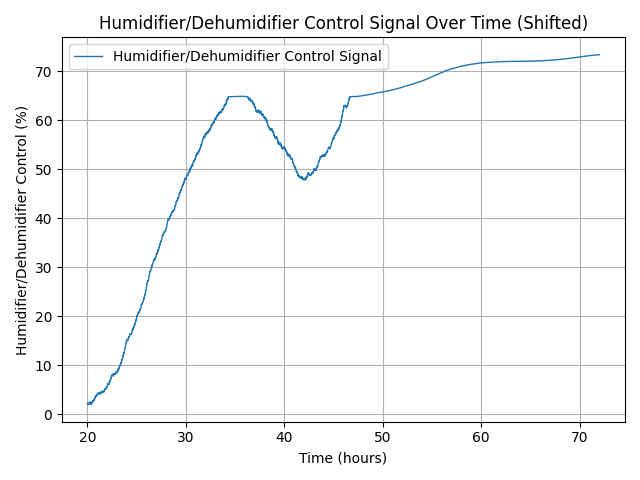
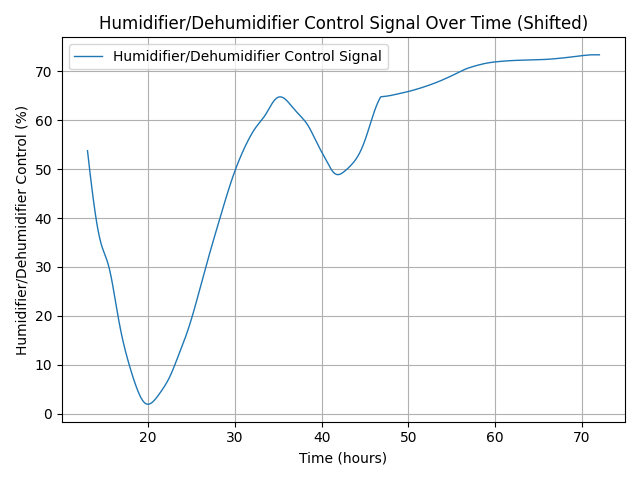
removed noise

diff --git a/environment_simulator.py b/environment_simulator.py
@@ -44,7 +44,7 @@ def calc_new_temp_and_hum(temp, humidity, ac_heater_control, humidifier_control,
     humidity_change += (humidity - splines["humidity"](hour)) * 0.1 * step_hours
     #print('humidity', humidity, 'humidifier_control', humidifier_control, 'humidity_change', humidity_change, 'step_seconds', step_seconds, 'humidifier_max_change', humidifier_max_change)
     env_outputs = {"temperature": temp + temp_change, "humidity": humidity + humidity_change, "outdoor_temperature": outdoor_temp}
-    percent_noise = 0.05 / 100  # 0.05% noise
+    percent_noise = 0.0 / 100  # 0.05% noise
     for key in env_outputs:
        env_outputs[key] *= random.uniform(1 - percent_noise, 1 + percent_noise)  # Add some noise
     return {'outputs':env_outputs, 'ac_heater_control': ac_heater_control, 'humidifier_control': humidifier_control}
